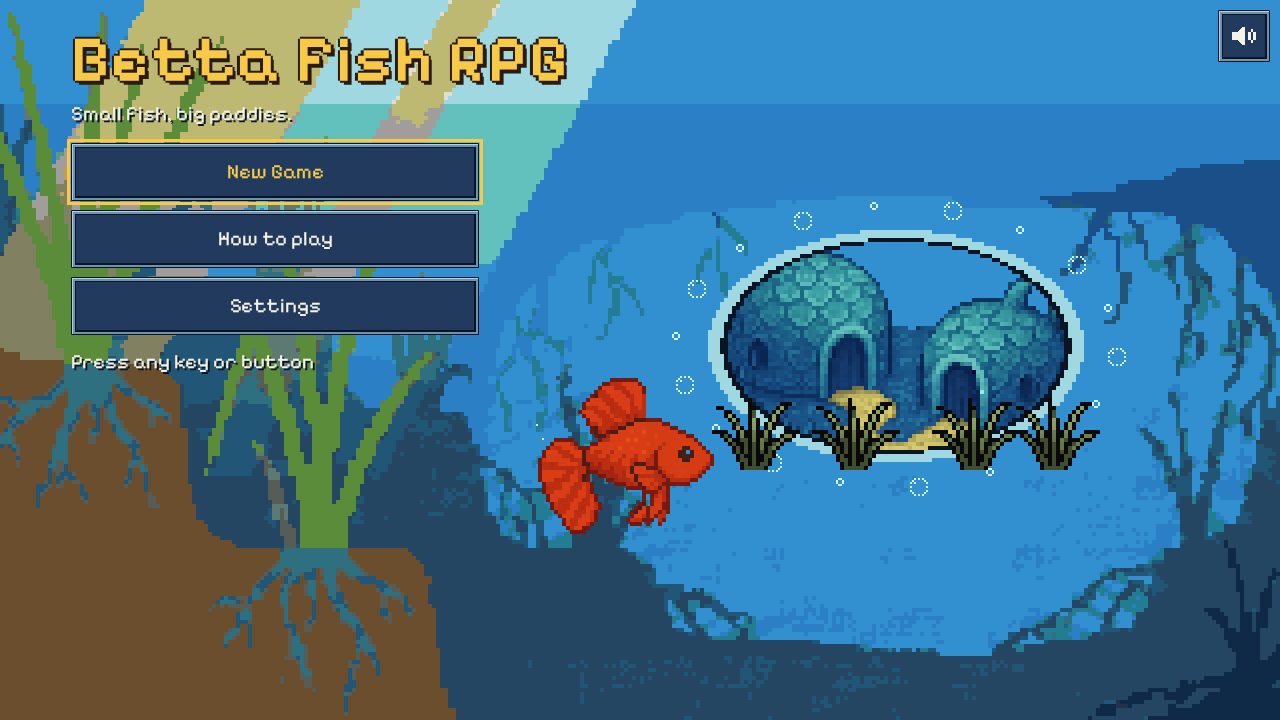
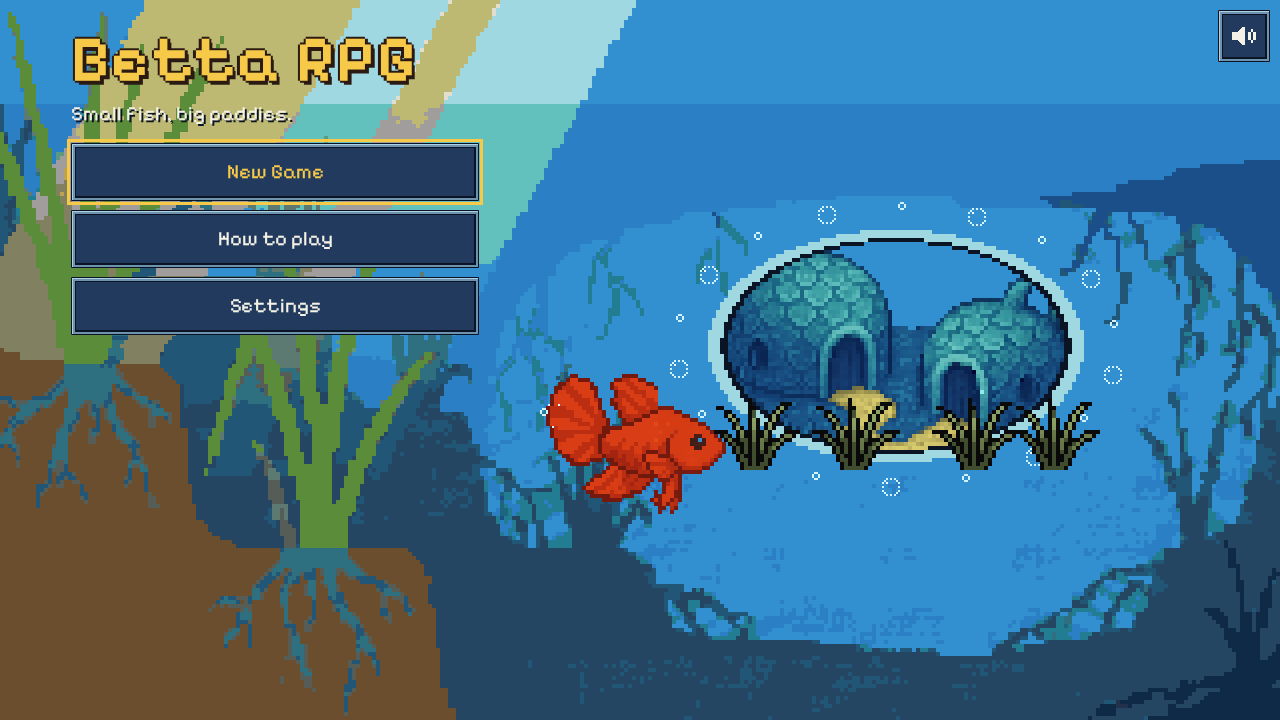
The game is called Betta RPG: title, page, app name, credits, social card, README and design

diff --git a/game/index.html b/game/index.html
@@ -3,11 +3,11 @@
 <head>
 <meta charset="utf-8">
 <meta name="viewport" content="width=device-width, initial-scale=1, viewport-fit=cover">
-<title>Betta Fish RPG: a pixel-art adventure in the rice paddies</title>
+<title>Betta RPG: a pixel-art adventure in the rice paddies</title>
 <meta name="description" content="Swim out of Paddy Village, battle or befriend the fish of the terraced rice paddies, and find out why fish are vanishing. A cozy pixel-art RPG for desktop and phones.">
 <meta name="theme-color" content="#123a66">
 <meta property="og:type" content="website">
-<meta property="og:title" content="Betta Fish RPG">
+<meta property="og:title" content="Betta RPG">
 <meta property="og:description" content="Small fish, big paddies. Find the missing fish, with your fins or your friendship.">
 <meta property="og:image" content="social-card.jpg">
 <meta property="og:image:width" content="1200">
@@ -25,7 +25,7 @@
 </head>
 <body>
 <div id="game">
-  <canvas id="cv" aria-label="Betta Fish RPG"></canvas>
+  <canvas id="cv" aria-label="Betta RPG"></canvas>
 
   <!-- exploring HUD -->
   <div id="hud" class="layer" hidden>
@@ -95,7 +95,7 @@
   <!-- screens -->
   <section data-screen="title" class="screen title" hidden>
     <div class="titlewrap">
-      <h1 class="logo">Betta Fish RPG</h1>
+      <h1 class="logo">Betta RPG</h1>
       <p class="sub">Small fish, big paddies.</p>
       <div class="menu col" id="titleMenu"></div>
       <p class="press" id="titlePress"></p>
@@ -180,7 +180,7 @@
 
   <section data-screen="credits" class="screen dim" hidden>
     <div class="panel card credits">
-      <h2>Betta Fish RPG</h2>
+      <h2>Betta RPG</h2>
       <div id="creditsBody"></div>
       <div class="menu rowc"><button class="btn primary" id="creditsOk">Keep playing</button></div>
     </div>

diff --git a/design/github-social.html b/design/github-social.html
@@ -1,0 +1,20 @@
+<!DOCTYPE html>
+<html><head><meta charset="utf-8"><style>
+@font-face { font-family: 'Pixelify Sans'; src: url('../game/fonts/BettaPixel-600.ttf'); }
+html, body { font-variant-ligatures: none; font-feature-settings: 'liga' 0; margin: 0; width: 1280px; height: 640px; overflow: hidden; background: #123a66; }
+.bg { position: absolute; left: -40px; top: -40px; width: 1360px; height: 600px; image-rendering: pixelated; background: url('../game/assets/native/backdrops/title.png') center/cover; height: 710px; }
+.fish { position: absolute; left: 290px; top: 300px; width: 270px; image-rendering: pixelated; }
+.bub { position: absolute; left: 180px; top: 380px; width: 136px; image-rendering: pixelated; }
+.gar { position: absolute; right: 150px; top: 330px; width: 423px; image-rendering: pixelated; transform: scaleX(-1); }
+h1 { position: absolute; left: 0; right: 0; top: 70px; margin: 0; text-align: center; font: 600 120px 'Pixelify Sans'; color: #F7C948;
+  text-shadow: 6px 6px 0 #2A1A12, -4px 0 0 #2A1A12, 0 -4px 0 #2A1A12, 4px 0 0 #2A1A12, 0 4px 0 #2A1A12; letter-spacing: 2px; }
+p, h1 { font-variant-ligatures: none !important; font-feature-settings: 'liga' 0 !important; }
+p { position: absolute; left: 0; right: 0; top: 215px; margin: 0; text-align: center; font: 40px 'Pixelify Sans'; color: #F4F1E6; text-shadow: 3px 3px 0 #0B1424; }
+</style></head><body>
+<div class="bg"></div>
+<img class="gar" src="../game/assets/native/boss/gargantuan_gar.png">
+<img class="bub" src="../game/assets/native/villagers/bubble.png">
+<img class="fish" src="../game/assets/native/original/main_fish/partyhat/player_betta_partyhat.png">
+<h1>Betta RPG</h1>
+<p>Small fish, big paddies.</p>
+</body></html>

diff --git a/design/share/index.html b/design/share/index.html
@@ -3,7 +3,7 @@
 <head>
 <meta charset="utf-8">
 <meta name="viewport" content="width=device-width, initial-scale=1">
-<title>Betta Fish RPG Remake Design</title>
+<title>Betta RPG Remake Design</title>
 <link rel="preconnect" href="https://fonts.googleapis.com">
 <link rel="preconnect" href="https://fonts.gstatic.com" crossorigin>
 <link href="https://fonts.googleapis.com/css2?family=Pixelify+Sans:wght@500;700&family=Nunito+Sans:ital,opsz,wght@0,6..12,400;0,6..12,700;1,6..12,400&display=swap" rel="stylesheet">
@@ -74,8 +74,8 @@ footer { color: var(--muted); font-size: 14px; border-top: 1px solid var(--line)
 <div class="wrap">
 
 <header>
-  <div class="eyebrow">Game design · for comments · a remake of the original Betta Fish RPG</div>
-  <h1>Betta Fish RPG</h1>
+  <div class="eyebrow">Game design · for comments · a remake of the original Betta RPG</div>
+  <h1>Betta RPG</h1>
   <p class="tagline">Small fish, big paddies. Find the missing fish, with your fins or your friendship.</p>
   <figure>
     <img src="mockups/screen-title.png" alt="Mock title screen: an underwater rice paddy at morning, the village domes in an oval, the red betta swimming in front.">
@@ -253,7 +253,7 @@ footer { color: var(--muted); font-size: 14px; border-top: 1px solid var(--line)
   </ul>
 </section>
 
-<footer>Betta Fish RPG, a remake of the original game by Rich Conlan. Design for review, November 2026. The pictures here are early art made for the game.</footer>
+<footer>Betta RPG, a remake of the original game by Rich Conlan. Design for review, November 2026. The pictures here are early art made for the game.</footer>
 
 </div>
 </body>

diff --git a/game/src/main.js b/game/src/main.js
@@ -919,7 +919,7 @@ function openCredits(kind) {
     $('creditsBody').innerHTML = [
       `<div style="grid-column: 1 / -1"><p>${kind === 'friend' ? 'The friendship ending: the old Gar has a village now.' : 'The fins ending: the paddies are safe.'} <span style="white-space:nowrap">${escapeHtml(s.name)} · Level&nbsp;${s.level} · Friends&nbsp;${state.friendsTotal(s)}${s.flags.garFriend ? ' + the&nbsp;Gar' : ''}</span></p></div>`,
       c('Idea and original game by', 'Rich Conlan'),
-      c('Original sprites', 'from the original Betta Fish&nbsp;RPG'),
+      c('Original sprites', 'from the original Betta&nbsp;RPG'),
       c('Remake', 'made with gamegen (Claude)'),
       c('New art, music and sounds', 'generated, finished in code'),
       c('Font', 'Pixelify Sans (SIL&nbsp;OFL)'),
@@ -1204,7 +1204,7 @@ async function boot() {
     else audio.suspend(false);
   });
   addEventListener('blur', () => { input.releaseAll(); });
-  window.gameReport?.setup({ game: 'Betta Fish RPG', key: 'bettarpg', visibility: 'on',
+  window.gameReport?.setup({ game: 'Betta RPG', key: 'bettarpg', visibility: 'on',
     state: () => { const s = stateSnapshot(); return { screen: s.screen, area: s.area, player: s.player, level: s.level, hp: s.hp, mp: s.mp, bb: s.bb, flags: Object.keys(s.flags).join(','), friends: s.friendsTotal, goal: s.goal, battle: s.inBattle ? `${s.inBattle.kind} L${s.inBattle.level}` : 'no', input: s.input }; },
     pause: () => { if (G.mode === 'world' && !nav.has('pause')) openPause(); },
     grab: () => new Promise((r) => cv.toBlob(r, 'image/png')),

diff --git a/design/social-card.html b/design/social-card.html
@@ -15,6 +15,6 @@ p { position: absolute; left: 0; right: 0; top: 215px; margin: 0; text-align: ce
 <img class="gar" src="../game/assets/native/boss/gargantuan_gar.png">
 <img class="bub" src="../game/assets/native/villagers/bubble.png">
 <img class="fish" src="../game/assets/native/original/main_fish/partyhat/player_betta_partyhat.png">
-<h1>Betta Fish RPG</h1>
+<h1>Betta RPG</h1>
 <p>Small fish, big paddies.</p>
 </body></html>

diff --git a/tools/compose-mockups.py b/tools/compose-mockups.py
@@ -397,7 +397,7 @@ def screen_title():
     for i, (bx, by) in enumerate(((236, 226), (226, 210), (232, 194))):
         d.ellipse((bx, by, bx + 5 + i, by + 5 + i), outline=C['rim'], width=1)
     # title text
-    text(d, (40, 30), 'Betta Fish RPG', 46, fill=C['gold'], stroke=C['outline'], sw=4)
+    text(d, (40, 30), 'Betta RPG', 46, fill=C['gold'], stroke=C['outline'], sw=4)
     text(d, (44, 84), 'an underwater adventure in the rice paddies', 12, fill=C['white'], sw=1)
     # menu
     for i, s in enumerate(('Continue', 'New Game', 'Settings')):

diff --git a/README.md b/README.md
@@ -1,4 +1,4 @@
-# Betta Fish RPG
+# Betta RPG
 
 *Small fish, big paddies. Find the missing fish, with your fins or your friendship.*
 
@@ -8,7 +8,7 @@ helmet to full metal, and follow a trail of strange scales up to the city on the
 terrace and down into the dark Murk, where something very old and very lonely is waiting.
 Every fight can become a friendship, and the village remembers what you did.
 
-**[▶ Play Betta Fish RPG](https://bettafishrpg.synapticnoise.com/)** in your browser. No
+**[▶ Play Betta RPG](https://bettarpg.synapticnoise.com/)** in your browser. No
 install, works on desktop and on phones, with keyboard, mouse, touch or a controller.
 
 ![Title screen](media/screenshots/title.png)
@@ -49,7 +49,7 @@ endings, and a reward for making friends with every kind of fish in the paddies.
 
 ## How it was made
 
-Betta Fish RPG is a remake of [the original Betta Fish RPG](https://github.com/zeveck/bettarpg)
+Betta RPG is a remake of [the original Betta RPG](https://github.com/zeveck/bettarpg)
 (2025), made by [Claude Code](https://claude.com/claude-code) with
 [gamegen](https://github.com/zeveck/gamegen), from this request:
 
@@ -100,7 +100,7 @@ targets (both paths, fins and friendship), against the design's own
 
 ## Playing locally
 
-Betta Fish RPG is a plain web page with no build step. Serve the `game` folder with any
+Betta RPG is a plain web page with no build step. Serve the `game` folder with any
 static web server, for example:
 
     cd game

diff --git a/design/GAME_DESIGN.md b/design/GAME_DESIGN.md
@@ -1,4 +1,4 @@
-# Betta Fish RPG
+# Betta RPG
 
 *Small fish, big paddies. Find the missing fish, with your fins or your friendship.*
 
@@ -25,7 +25,7 @@ you did.
 - Credit: Rich Conlan
 - Remake of github.com/zeveck/bettarpg, leeway **lots**. Survey in `design/ORIGINAL.md`.
 - Decisions made on the player's behalf:
-  - Keep the name "Betta Fish RPG" (theirs, and their domain).
+  - Keep the name "Betta RPG" (theirs, and their domain).
   - Free swimming on a top-down map replaces the button grid; enemies are **visible** in the
     water instead of random encounters (players choose their fights; fixes the early spikes).
   - Turn-based battles stay: it's an RPG, and the original's spell set is the heart of it.
@@ -523,7 +523,7 @@ the canvas.
   village picture: `bettahome` cropped to its two domes (~88×52 art px), drawn at the
   scene's ×2 inside an oval mask with a code-drawn ring of bubbles and reeds. The player's
   betta in its current armor and color (or the base red one) swims in front; the name
-  "Betta Fish RPG" in the game font; Continue / New Game / Settings. Mute button.
+  "Betta RPG" in the game font; Continue / New Game / Settings. Mute button.
 - **Create your betta:** name field (top third of the screen; random-name button, kept),
   5 color swatches (kept colors), the betta preview swimming, "Swim to Village".
   - The name field is a real `<input>` (max 12 characters, letters, numbers, spaces, ' and

diff --git a/design/BRIEF.md b/design/BRIEF.md
@@ -1,4 +1,4 @@
-# Brief: Betta Fish RPG (remake)
+# Brief: Betta RPG (remake)
 
 **In one sentence:** a little betta swims out of Paddy Village across the terraced rice
 paddies to find out why fish are vanishing, and can settle it with fins or with friendship.
@@ -9,7 +9,7 @@ Time). Small fish, big adventure.
 
 ## What they asked for
 
-- [ ] Remake *their* Betta Fish RPG, keeping their assets and ideas (`--remake`)
+- [ ] Remake *their* Betta RPG, keeping their assets and ideas (`--remake`)
 - [ ] With lots of freedom: build what it was reaching for (`--leeway lots`)
 - [ ] A reviewed plan only, no build yet (`--plan-only`)
 - [ ] Shared for comments as a page, with $10 of mock pictures (`--share-design --mockups $10`)
@@ -48,4 +48,4 @@ overworld, but original in every detail.
 ## Settings and decisions
 
 Platform both, web, medium scope, $20 budget ($10 for mockups), 2 review rounds, 2D.
-Credit: Rich Conlan. Name kept: "Betta Fish RPG" (their name and domain).
+Credit: Rich Conlan. Name kept: "Betta RPG" (their name and domain).

diff --git a/design/STATUS.md b/design/STATUS.md
@@ -1,4 +1,4 @@
-# Betta Fish RPG
+# Betta RPG
 
 ## Requests
 
@@ -6,6 +6,7 @@
 2. (plan approval) "Proceed with the plan."
 3. `/gamegen --plans` (approved: "yes")
 4. `/gamegen --continue --budget 50 --gamepad --controls --feedback --art-sheet --publish`
+5. (at the publish question) "It should still just be "Betta RPG" and not "Betta Fish RPG" on the title, etc."
 
 From: https://github.com/zeveck/bettarpg (zeveck's own repo), remake, leeway lots.
 Original untouched; this is a new folder and repo with fresh history.

diff --git a/design/ORIGINAL.md b/design/ORIGINAL.md
@@ -1,4 +1,4 @@
-# The original: Betta Fish RPG v0.4.10
+# The original: Betta RPG v0.4.10
 
 Surveyed from github.com/zeveck/bettarpg (39 commits, July–Aug 2025; built with Claude Code,
 art by ChatGPT). Played in a browser on 2026-11-19: loads with no console errors.
